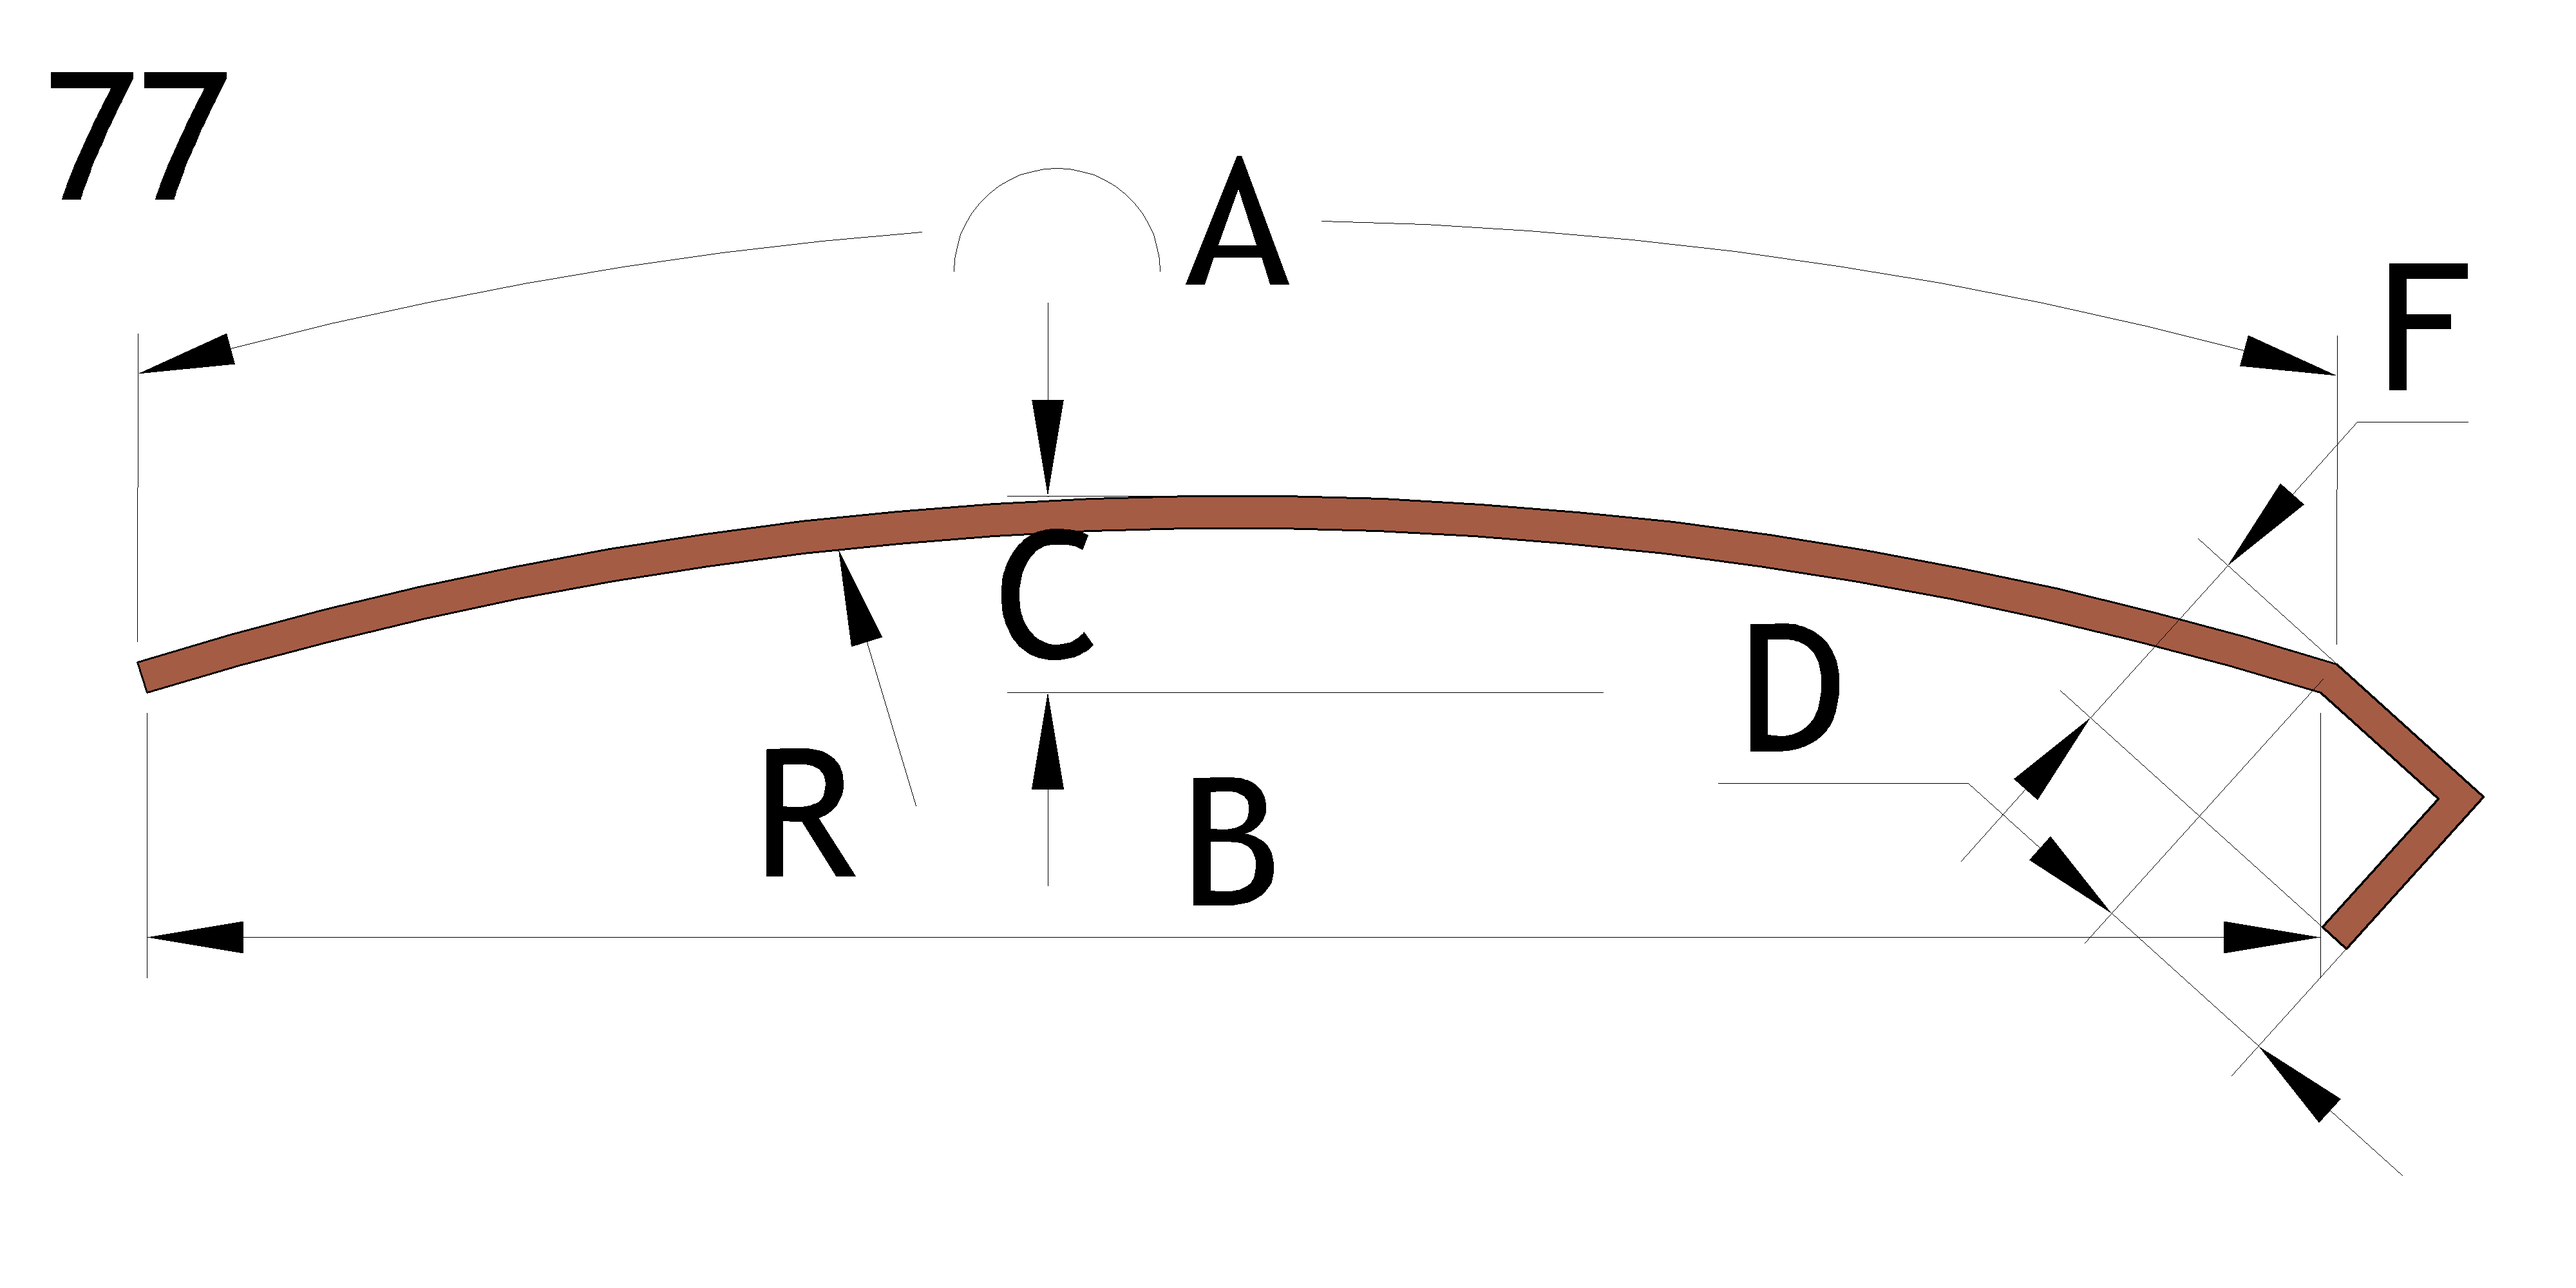
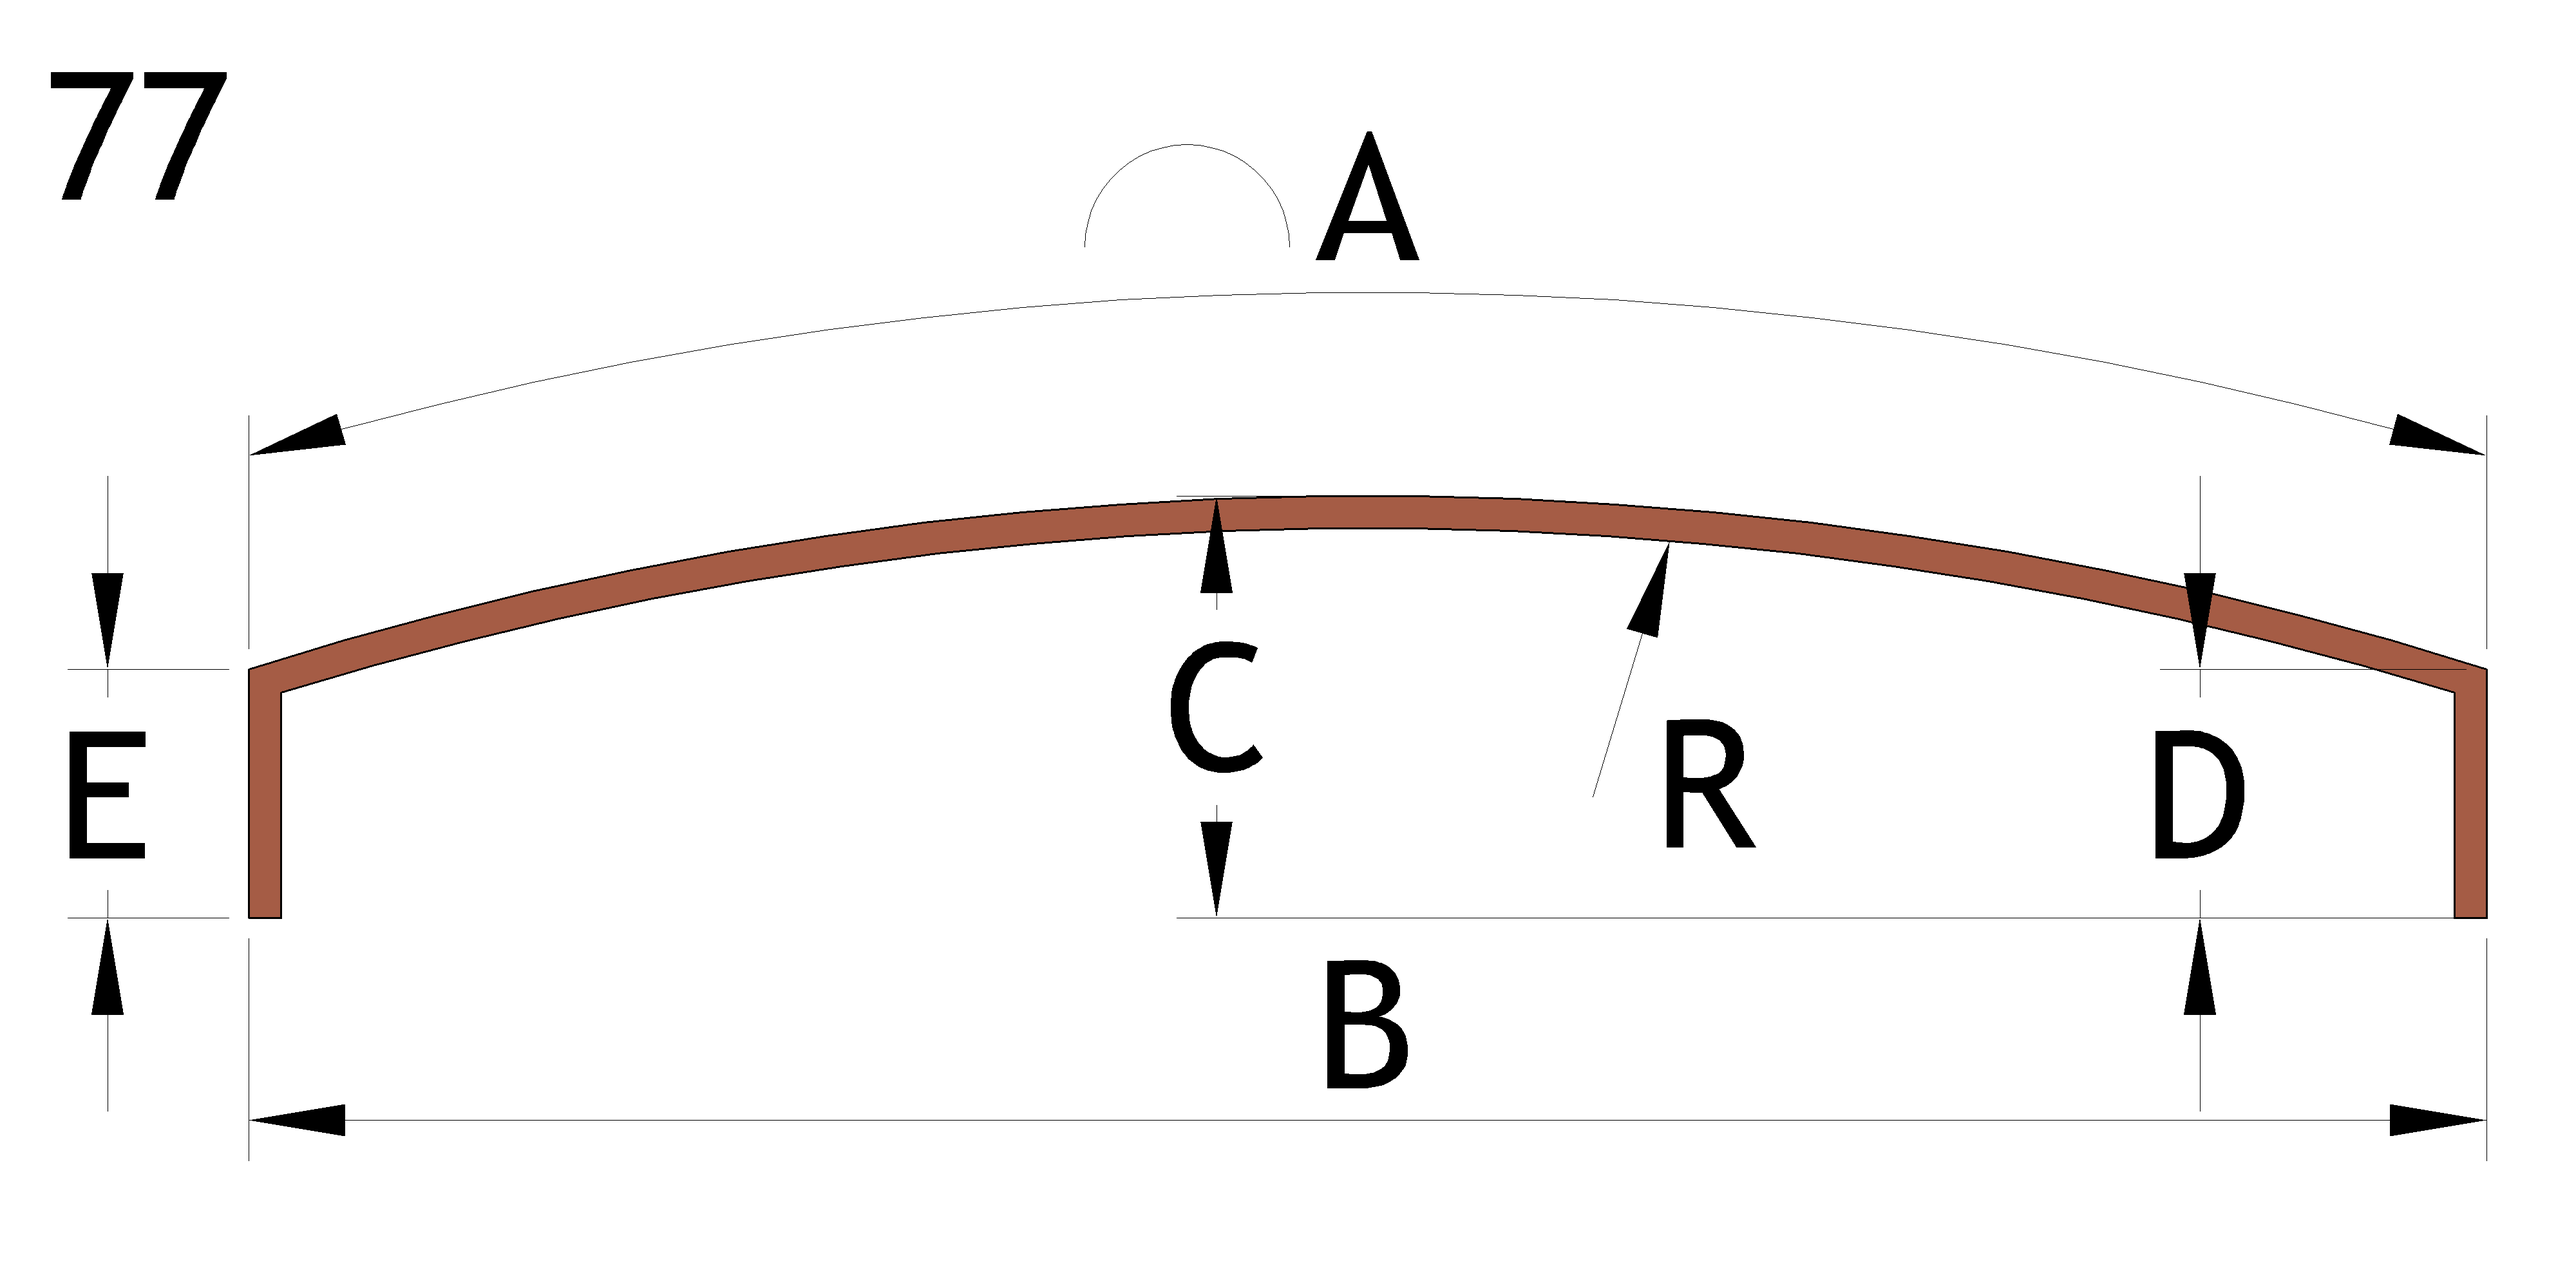
Replace all Shape_XX.png with tightly-cropped 4000x2000 (2:1) versions
Re-exported reference set: 70-93 got refined dimension labels (e.g.
Shape_70 gained E/F, Shape_75 dropped a redundant E), Shape_93 went
from an unillustrated "see to drawing" placeholder to a real Pentagon
shape, and two new shapes were added (94, 95) - shape count 94 -> 96.

Verified by diffing old vs new PNGs for a few numbers (70, 75, 93):
same shape number keeps the same geometry/meaning, just better
labeled - not a renumbering, so RebarRecognizer.cs's type-number
mappings don't need touching for this change.

PoseEditWindow.xaml.cs: bumped the shape dropdown and image-guard
range from 0-93 to 0-95 to match. PoseEdit2026.csproj: added
Shape_94.png/95.png to both the None-Remove and Resource ItemGroups.

diff --git a/PoseEditWindow.xaml.cs b/PoseEditWindow.xaml.cs
@@ -53,12 +53,12 @@ namespace PoseEdit2026
                 // ====================================================================================
                 // СПИСОК 1: cmbShapeNumber (Номер формы арматуры)
                 // ====================================================================================
-                // Заполняем список номерами форм от 00 до 93
-                // "D2" означает формат с двумя цифрами (00, 01, 02, ..., 93)
-                // ВНИМАНИЕ: В папке Resources есть только 94 картинки (от Shape_00.png до Shape_93.png)
+                // Заполняем список номерами форм от 00 до 95
+                // "D2" означает формат с двумя цифрами (00, 01, 02, ..., 95)
+                // ВНИМАНИЕ: В папке Resources есть 96 картинок (от Shape_00.png до Shape_95.png)
                 // C# 12 / .NET 8: Используем Enumerable.Range для более читаемого кода
                 cmbShapeNumber.Items.Clear(); // Очищаем список перед заполнением
-                var shapeNumbers = Enumerable.Range(0, 94) // Генерируем числа от 0 до 93 (94 элемента)
+                var shapeNumbers = Enumerable.Range(0, 96) // Генерируем числа от 0 до 95 (96 элементов)
                     .Select(i => i.ToString("D2"))          // Преобразуем в строку с ведущим нулем (00, 01, ...)
                     .ToArray();                             // Преобразуем в массив
                 foreach (var number in shapeNumbers)
@@ -526,13 +526,13 @@ namespace PoseEdit2026
             // ====================================================================================
             // ПРОВЕРКА: Существует ли картинка для данного номера формы
             // ====================================================================================
-            // В папке Resources есть только картинки от Shape_00.png до Shape_93.png (94 картинки)
-            // Если номер формы больше 93 или равен "99" (не распознано), картинки нет
+            // В папке Resources есть картинки от Shape_00.png до Shape_95.png (96 картинок)
+            // Если номер формы больше 95 или равен "99" (не распознано), картинки нет
             // Пытаемся преобразовать код в число для проверки
             if (int.TryParse(code, out int shapeNumber))
             {
-                // Если номер больше 93, картинки нет - очищаем изображение
-                if (shapeNumber > 93)
+                // Если номер больше 95, картинки нет - очищаем изображение
+                if (shapeNumber > 95)
                 {
                     imgPreview.Source = null;
                     return; // Выходим, не пытаясь загрузить несуществующую картинку
